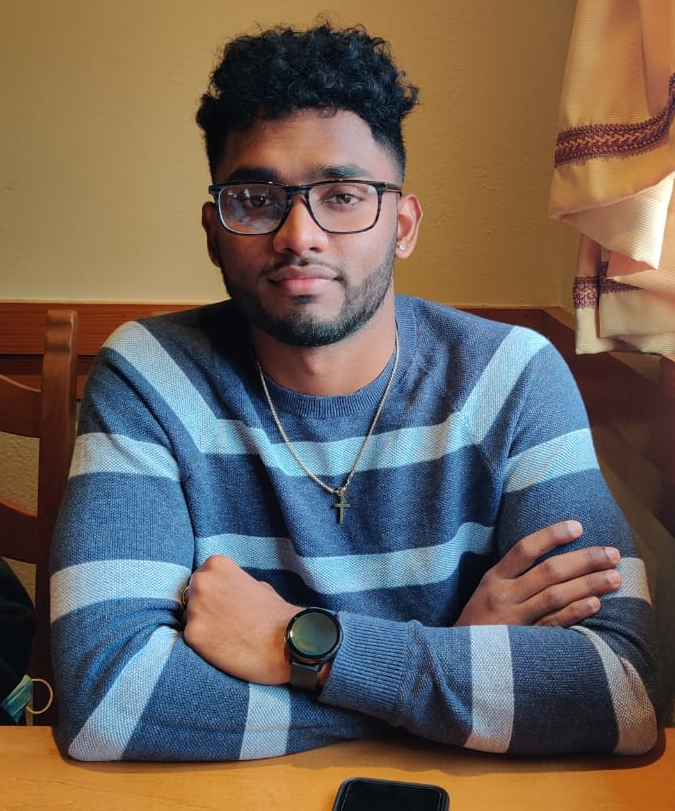
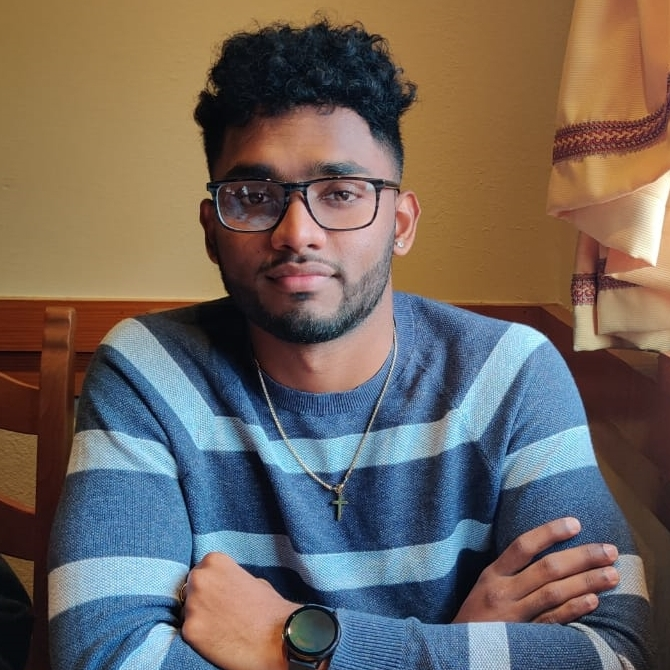
about framework completed - lorem text

diff --git a/css/style.css b/css/style.css
@@ -62,7 +62,7 @@ header{
 
 .nav-bar{
     position: relative;
-    height: calc(2rem + 1rem);
+    height: calc(2.5rem + 1rem);
     max-width: 1250px;
     display: flex;
     justify-content: space-between;
@@ -156,7 +156,7 @@ header{
 }
 
 .about-container h2{
-    color: var(--third-color);
+    color: var(--text-color);
     font-size: 4em;
     font-weight: 600;
     line-height: 100px;
@@ -172,15 +172,25 @@ header{
     color: var(--second-color);
     font-size: var(--normal-font-size);
     max-width: 550px;
+    margin-bottom: 1em;
+    text-align: left;
 }
 
 .about-container .profile-pic{
-    width: 350px;
-    height: auto;
+    max-width: 350px;
+    max-height: 350px;
+    background-color: var(--hover-color);
 }
 
 .profile-pic img{
-    width: 100%;
-    height: auto;
+    width: 350px;
+    height: 350px;
+    opacity: .6;
+    transition: 0.5s ease;
+    object-fit: fill;
+    
 }
-
+.profile-pic img:hover{
+    opacity: 1;
+    box-shadow: var(--text-highlight-color) 10px 10px ;
+}
